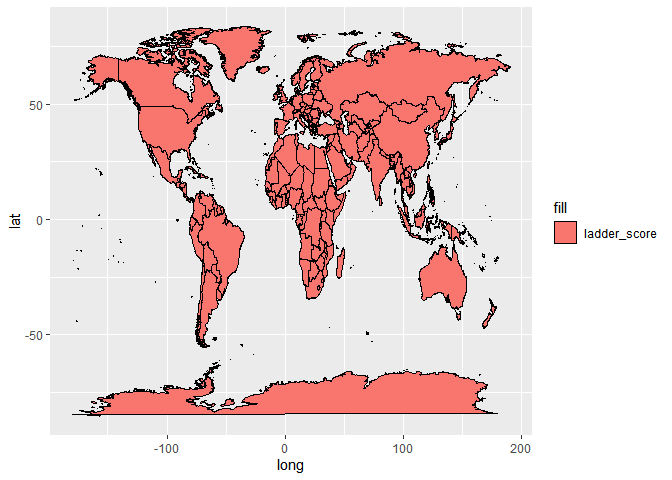
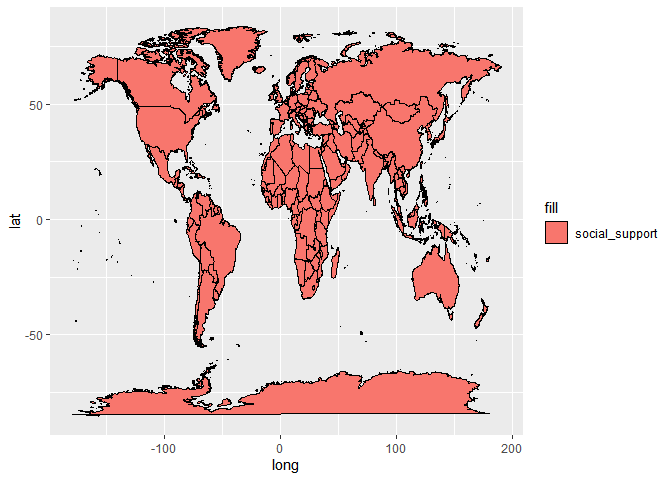
update

diff --git a/happiness_finder/happy_project/Kyra/Happiness-Map.html b/happiness_finder/happy_project/Kyra/Happiness-Map.html
@@ -364,10 +364,18 @@ pre code {
 
 
 <p>#installing package called maps</p>
-<pre class="r"><code>#install.packages(&quot;maps&quot;)
-#install.packages(&quot;leaflet&quot;)
-#install.packages(&quot;rgdal&quot;)
-#install.packages(&quot;tmap&quot;)</code></pre>
+<pre class="r"><code>#iSnstall.packages(&quot;maps&quot;, repos = &quot;http://cran.us.r-project.org&quot;)
+#install.packages(&quot;leaflet&quot;, repos = &quot;http://cran.us.r-project.org&quot;)
+#install.packages(&quot;rgdal&quot;, repos = &quot;http://cran.us.r-project.org&quot;)
+#install.packages(&quot;tmap&quot;, repos = &quot;http://cran.us.r-project.org&quot;)</code></pre>
+<pre class="r"><code>install.packages(&quot;mappproj&quot;, repos = &quot;http://cran.us.r-project.org&quot;)</code></pre>
+<pre><code>## Installing package into &#39;C:/Users/merma/AppData/Local/R/win-library/4.2&#39;
+## (as &#39;lib&#39; is unspecified)</code></pre>
+<pre><code>## Warning: package &#39;mappproj&#39; is not available for this version of R
+## 
+## A version of this package for your version of R might be available elsewhere,
+## see the ideas at
+## https://cran.r-project.org/doc/manuals/r-patched/R-admin.html#Installing-packages</code></pre>
 <pre class="r"><code>library(tidyverse)</code></pre>
 <pre><code>## ── Attaching packages ─────────────────────────────────────── tidyverse 1.3.2 ──
 ## ✔ ggplot2 3.4.0      ✔ purrr   1.0.0 
@@ -442,7 +450,9 @@ library(magrittr)</code></pre>
 <pre class="r"><code>library(rworldmap)</code></pre>
 <pre><code>## ### Welcome to rworldmap ###
 ## For a short introduction type :   vignette(&#39;rworldmap&#39;)</code></pre>
-<pre class="r"><code>library(tmap)</code></pre>
+<pre class="r"><code>library(tmap)
+library(sf)</code></pre>
+<pre><code>## Linking to GEOS 3.9.3, GDAL 3.5.2, PROJ 8.2.1; sf_use_s2() is TRUE</code></pre>
 <pre class="r"><code>getwd()</code></pre>
 <pre><code>## [1] &quot;C:/Users/merma/OneDrive/Desktop/happy/happiness_finder/happy_project/Kyra&quot;</code></pre>
 <p>##loading in 2020 and 2021 data</p>
@@ -589,14 +599,22 @@ View(mapdata2021)</code></pre>
                                        ladder_score &gt;= 2.567 &amp; ladder_score &lt;=5.747 ~ &quot;small&quot;,
                                        ladder_score &gt;= 5.747 &amp; ladder_score &lt;7.809 ~&quot;medium&quot;,
                                        ladder_score &gt;= 7.809 ~ &quot;large&quot;))</code></pre>
+<pre class="r"><code>summary(mapdata2020$social_support)</code></pre>
+<pre><code>##    Min. 1st Qu.  Median    Mean 3rd Qu.    Max.    NA&#39;s 
+##   0.319   0.808   0.890   0.848   0.927   0.975   22475</code></pre>
 <pre class="r"><code>map_socialsupport&lt;-ggplot(mapdata2020, aes(x = long, y= lat, group= group,))+
   geom_polygon(aes(fill=&quot;social_support&quot;), color= &quot;black&quot;)
 map_socialsupport</code></pre>
[1 lines of base64/hex data omitted]
+<pre class="r"><code>#ggplot(mapdata2020, aes(x=long, y= lat))+
+#geom_polygon(aes(group=group, fill= #&quot;social_support&quot;))+coord_map()</code></pre>
 <pre class="r"><code>map_ladderscore&lt;-ggplot(mapdata2020, aes(x=long, lat, group=group))+
   geom_polygon(aes(fill=&quot;ladder_score&quot;), color=&quot;black&quot;)
 map_ladderscore</code></pre>
[1 lines of base64/hex data omitted]
+<p>##experimenting with leaflet</p>
+<pre class="r"><code>colors_red &lt;- colorNumeric(palette= &quot;Reds&quot;, domain= NULL)</code></pre>
+<p>##leaflet with social support</p>
 </div>
 
 

diff --git a/happiness_finder/happy_project/Kyra/Happiness-Map.md b/happiness_finder/happy_project/Kyra/Happiness-Map.md
@@ -12,10 +12,27 @@ output:
 #installing package called maps 
 
 ```r
-#install.packages("maps")
-#install.packages("leaflet")
-#install.packages("rgdal")
-#install.packages("tmap")
+#iSnstall.packages("maps", repos = "http://cran.us.r-project.org")
+#install.packages("leaflet", repos = "http://cran.us.r-project.org")
+#install.packages("rgdal", repos = "http://cran.us.r-project.org")
+#install.packages("tmap", repos = "http://cran.us.r-project.org")
+```
+
+```r
+install.packages("mappproj", repos = "http://cran.us.r-project.org")
+```
+
+```
+## Installing package into 'C:/Users/merma/AppData/Local/R/win-library/4.2'
+## (as 'lib' is unspecified)
+```
+
+```
+## Warning: package 'mappproj' is not available for this version of R
+## 
+## A version of this package for your version of R might be available elsewhere,
+## see the ideas at
+## https://cran.r-project.org/doc/manuals/r-patched/R-admin.html#Installing-packages
 ```
 
 
@@ -149,6 +166,11 @@ library(rworldmap)
 
 ```r
 library(tmap)
+library(sf)
+```
+
+```
+## Linking to GEOS 3.9.3, GDAL 3.5.2, PROJ 8.2.1; sf_use_s2() is TRUE
 ```
 
 ```r
@@ -382,6 +404,15 @@ mapdata2020 <-mapdata2020 %>%
                                        ladder_score >= 7.809 ~ "large"))
 ```
 
+```r
+summary(mapdata2020$social_support)
+```
+
+```
+##    Min. 1st Qu.  Median    Mean 3rd Qu.    Max.    NA's 
+##   0.319   0.808   0.890   0.848   0.927   0.975   22475
+```
+
 
 
 ```r
@@ -390,7 +421,14 @@ map_socialsupport<-ggplot(mapdata2020, aes(x = long, y= lat, group= group,))+
 map_socialsupport
 ```
 
-![](Happiness-Map_files/figure-html/unnamed-chunk-20-1.png)<!-- -->
+![](Happiness-Map_files/figure-html/unnamed-chunk-22-1.png)<!-- -->
+
+
+```r
+#ggplot(mapdata2020, aes(x=long, y= lat))+
+#geom_polygon(aes(group=group, fill= #"social_support"))+coord_map()
+```
+
 
 
 ```r
@@ -399,5 +437,16 @@ map_ladderscore<-ggplot(mapdata2020, aes(x=long, lat, group=group))+
 map_ladderscore
 ```
 
-![](Happiness-Map_files/figure-html/unnamed-chunk-21-1.png)<!-- -->
+![](Happiness-Map_files/figure-html/unnamed-chunk-24-1.png)<!-- -->
+
+
+##experimenting with leaflet
+
+```r
+colors_red <- colorNumeric(palette= "Reds", domain= NULL)
+```
+
+##leaflet with social support
+
+
 
